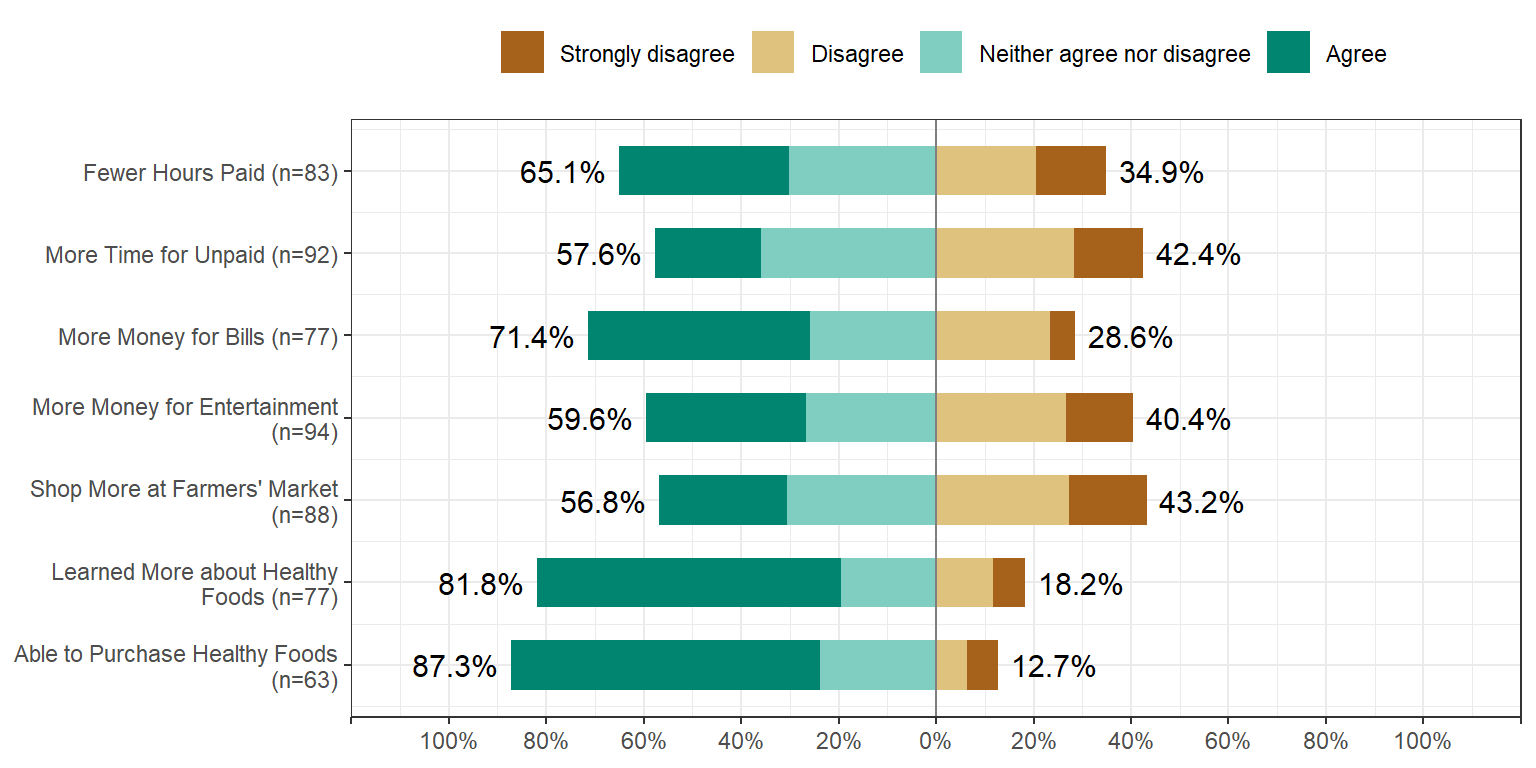
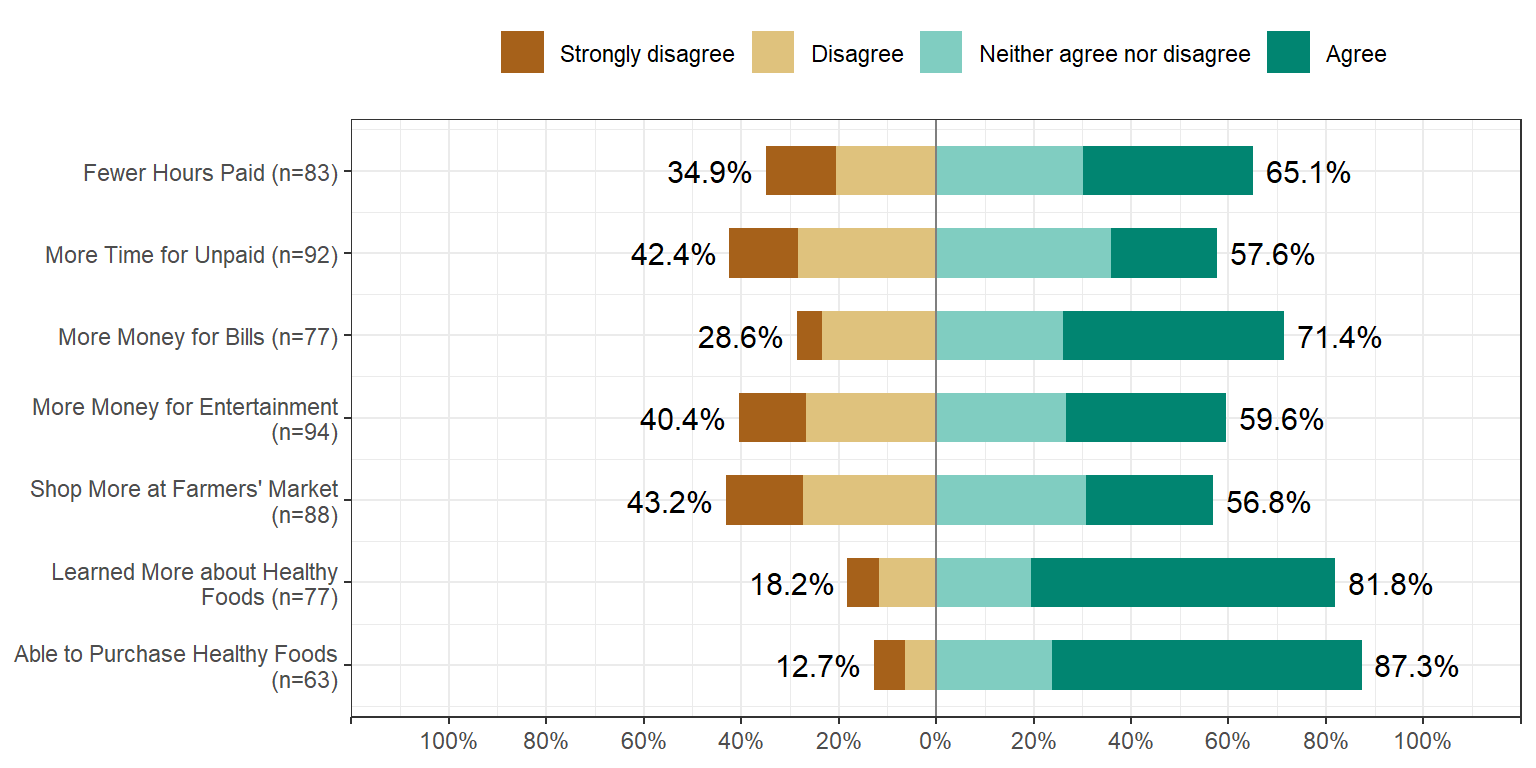
Commit

diff --git a/cfo_participation.html b/cfo_participation.html
@@ -550,8 +550,9 @@ div.tocify {
 34.0% (n = 34) of respondents agreed that their stress levels decreased when they received CalFresh benefits and 9.0% (n = 9) disagreed with the statement. 14.0% (n = 14) neither agreed nor disagreed. Additionally, 35.0% (n = 35) strongly agreed that their stress levels decreased.
 --->
 <p><img src="cfo_participation_files/figure-html/unnamed-chunk-34-1.png" width="768" style="display: block; margin: auto;" /></p>
-<p><img src="cfo_participation_files/figure-html/unnamed-chunk-35-1.png" width="768" style="display: block; margin: auto;" /></p>
-<p><img src="cfo_participation_files/figure-html/unnamed-chunk-36-1.png" width="768" style="display: block; margin: auto;" /></p>
+<p>More than 50% of respondants neither agreed or disagreed, or agreed, that they were able to work fewer paid hours (65.1%), had more time for unpaid work (57.6%), had more money for bills (71.4%) and entertainment (59.6%), shopped at the Farmer’s Market more (56.8%), were able to learn more about healthy food (71.8%) and were able to purchase healthy foods (87.3%) while they received CalFresh.</p>
+<p><img src="cfo_participation_files/figure-html/unnamed-chunk-35-1.png" width="768" style="display: block; margin: auto;" /> More than 50% of respondants neither agreed or disagreed, or agreed, that they were able to cook at home more often (94%), consumed a healthier diet (86.8%), consumed less fast food (84.6%), consumed fewer processed foods (85.9%), consumed fewer sweetened drinks (79.4%), and consumed fewer alcoholic beverages (81.4%) while they received CalFresh.</p>
+<p><img src="cfo_participation_files/figure-html/unnamed-chunk-36-1.png" width="768" style="display: block; margin: auto;" /> More than 50% of respondants neither agreed or disagreed, or agreed, that while they were receiving CalFresh they were enrolled in more classes (52%), able to concentrate more in classes (94.9%), and their grades improved (96.2%). They had more time to study for exams (93.8%), prepare for class (92.6%), and had more time for homework (92.4%) &amp; office hours (89%). They also reported that they neither disagreed nor agreed, or agreed, that they had more time to attend class (93.6%), for field trips (84.9%), their sleep quality improved (82.3%) and stress level decreased (73.9%) while receiving CalFresh.</p>
 </div>
 </div>
 <div id="barriers-to-calfresh" class="section level1">
